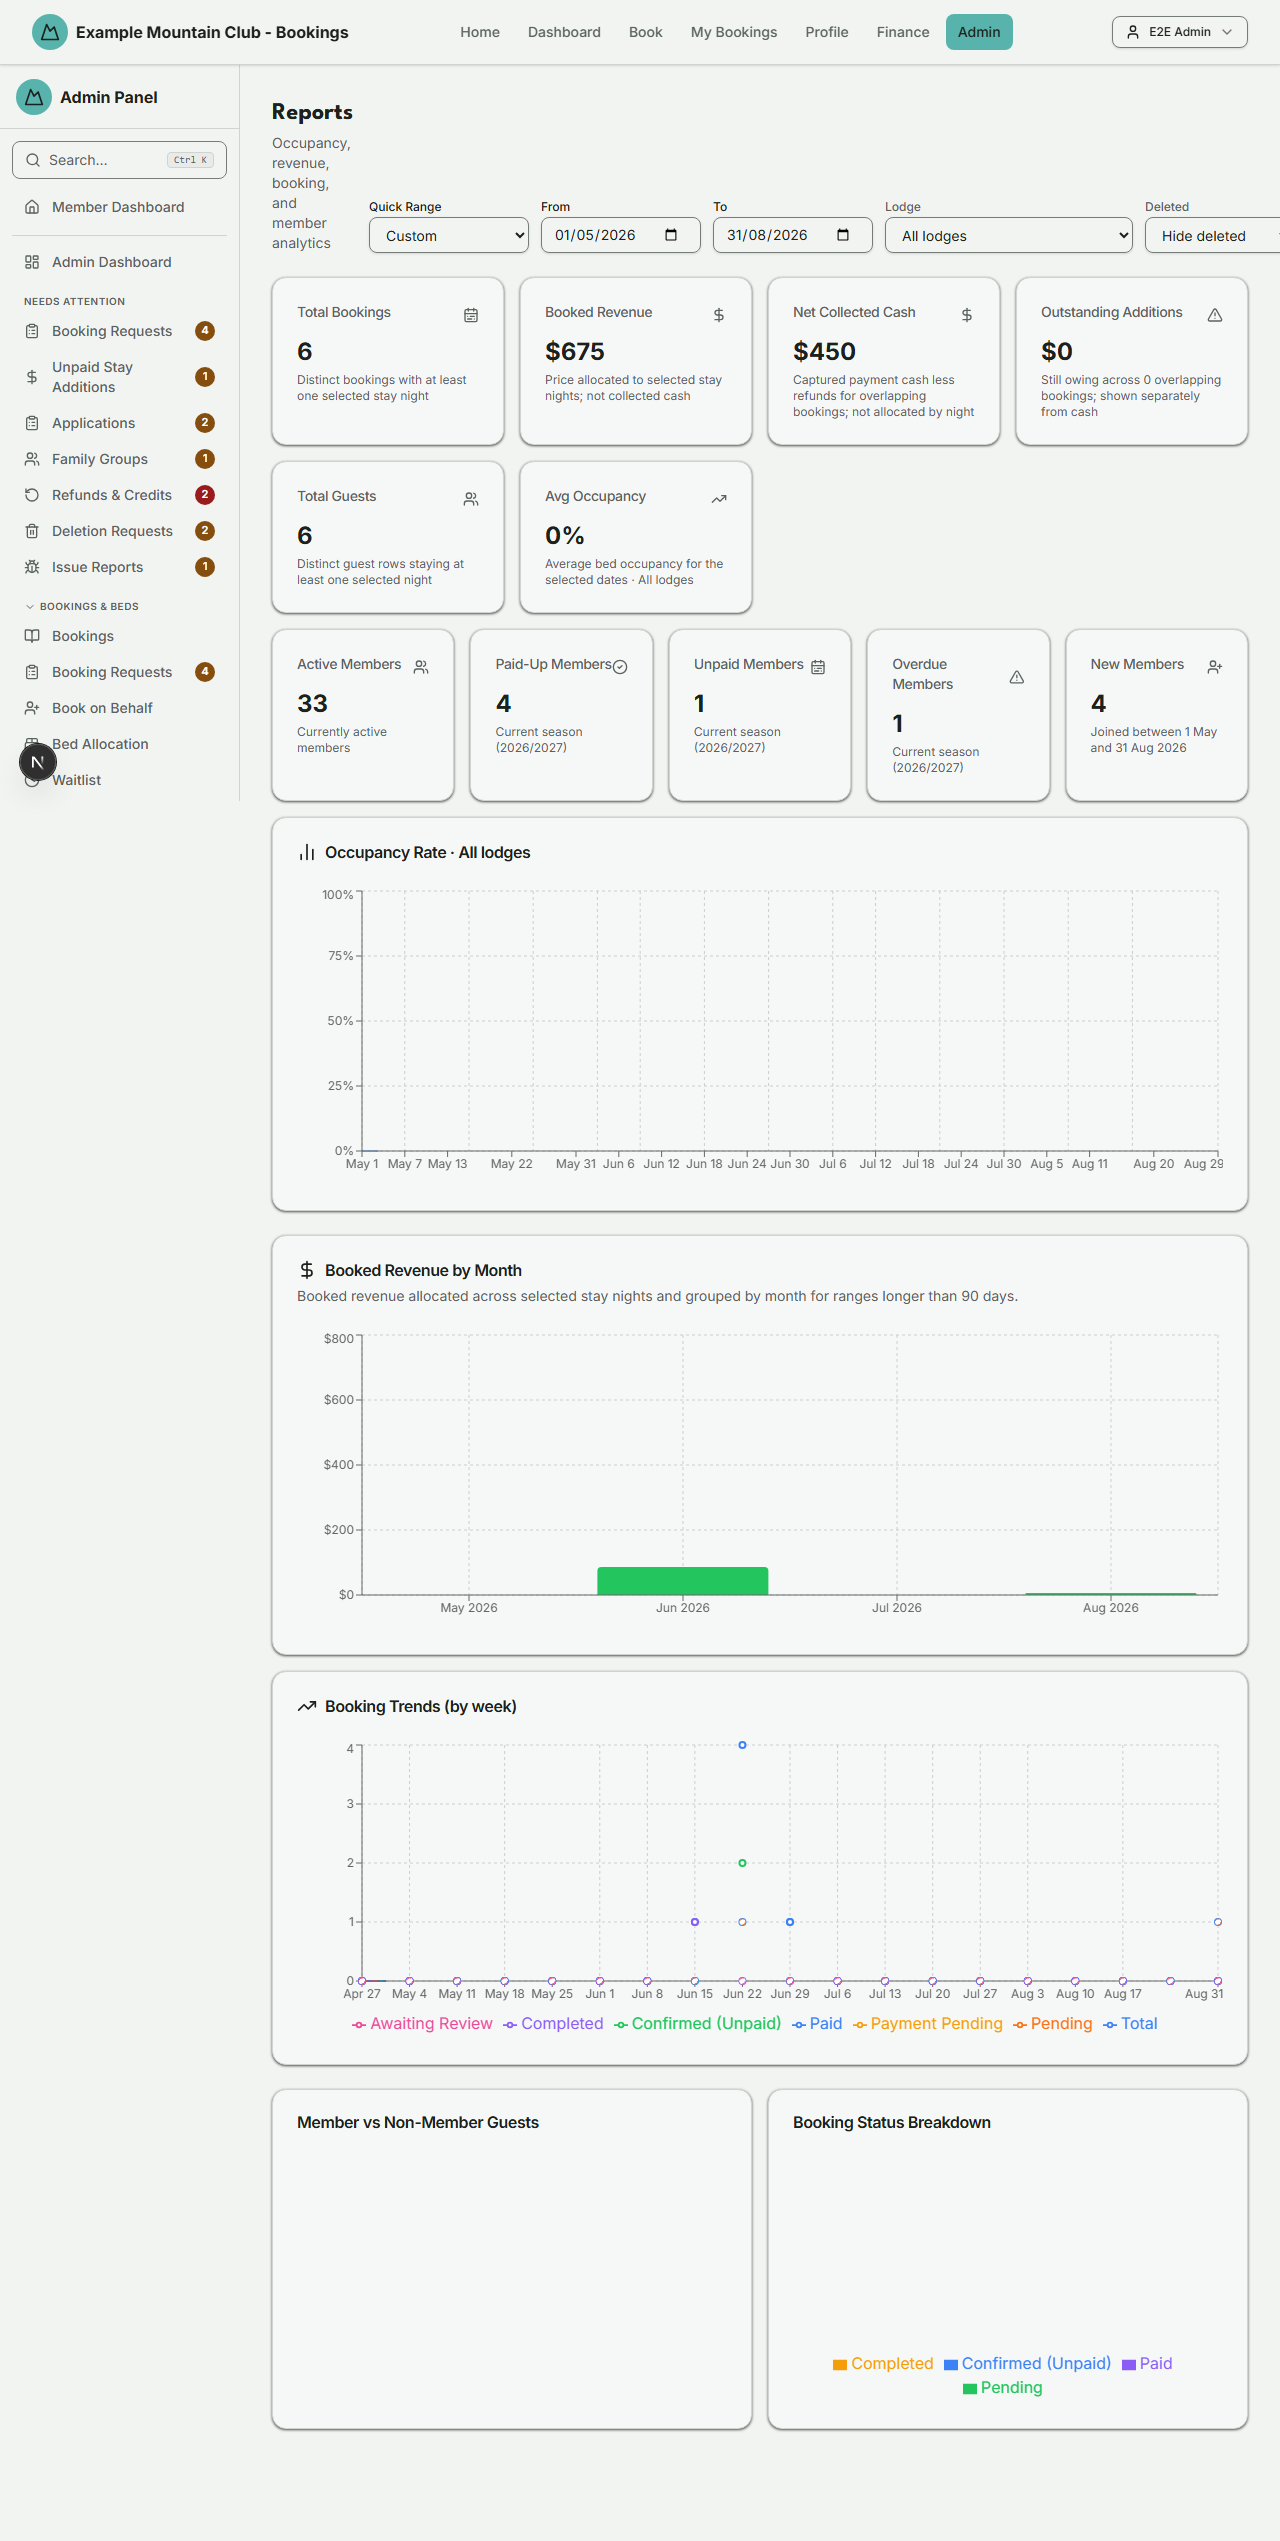
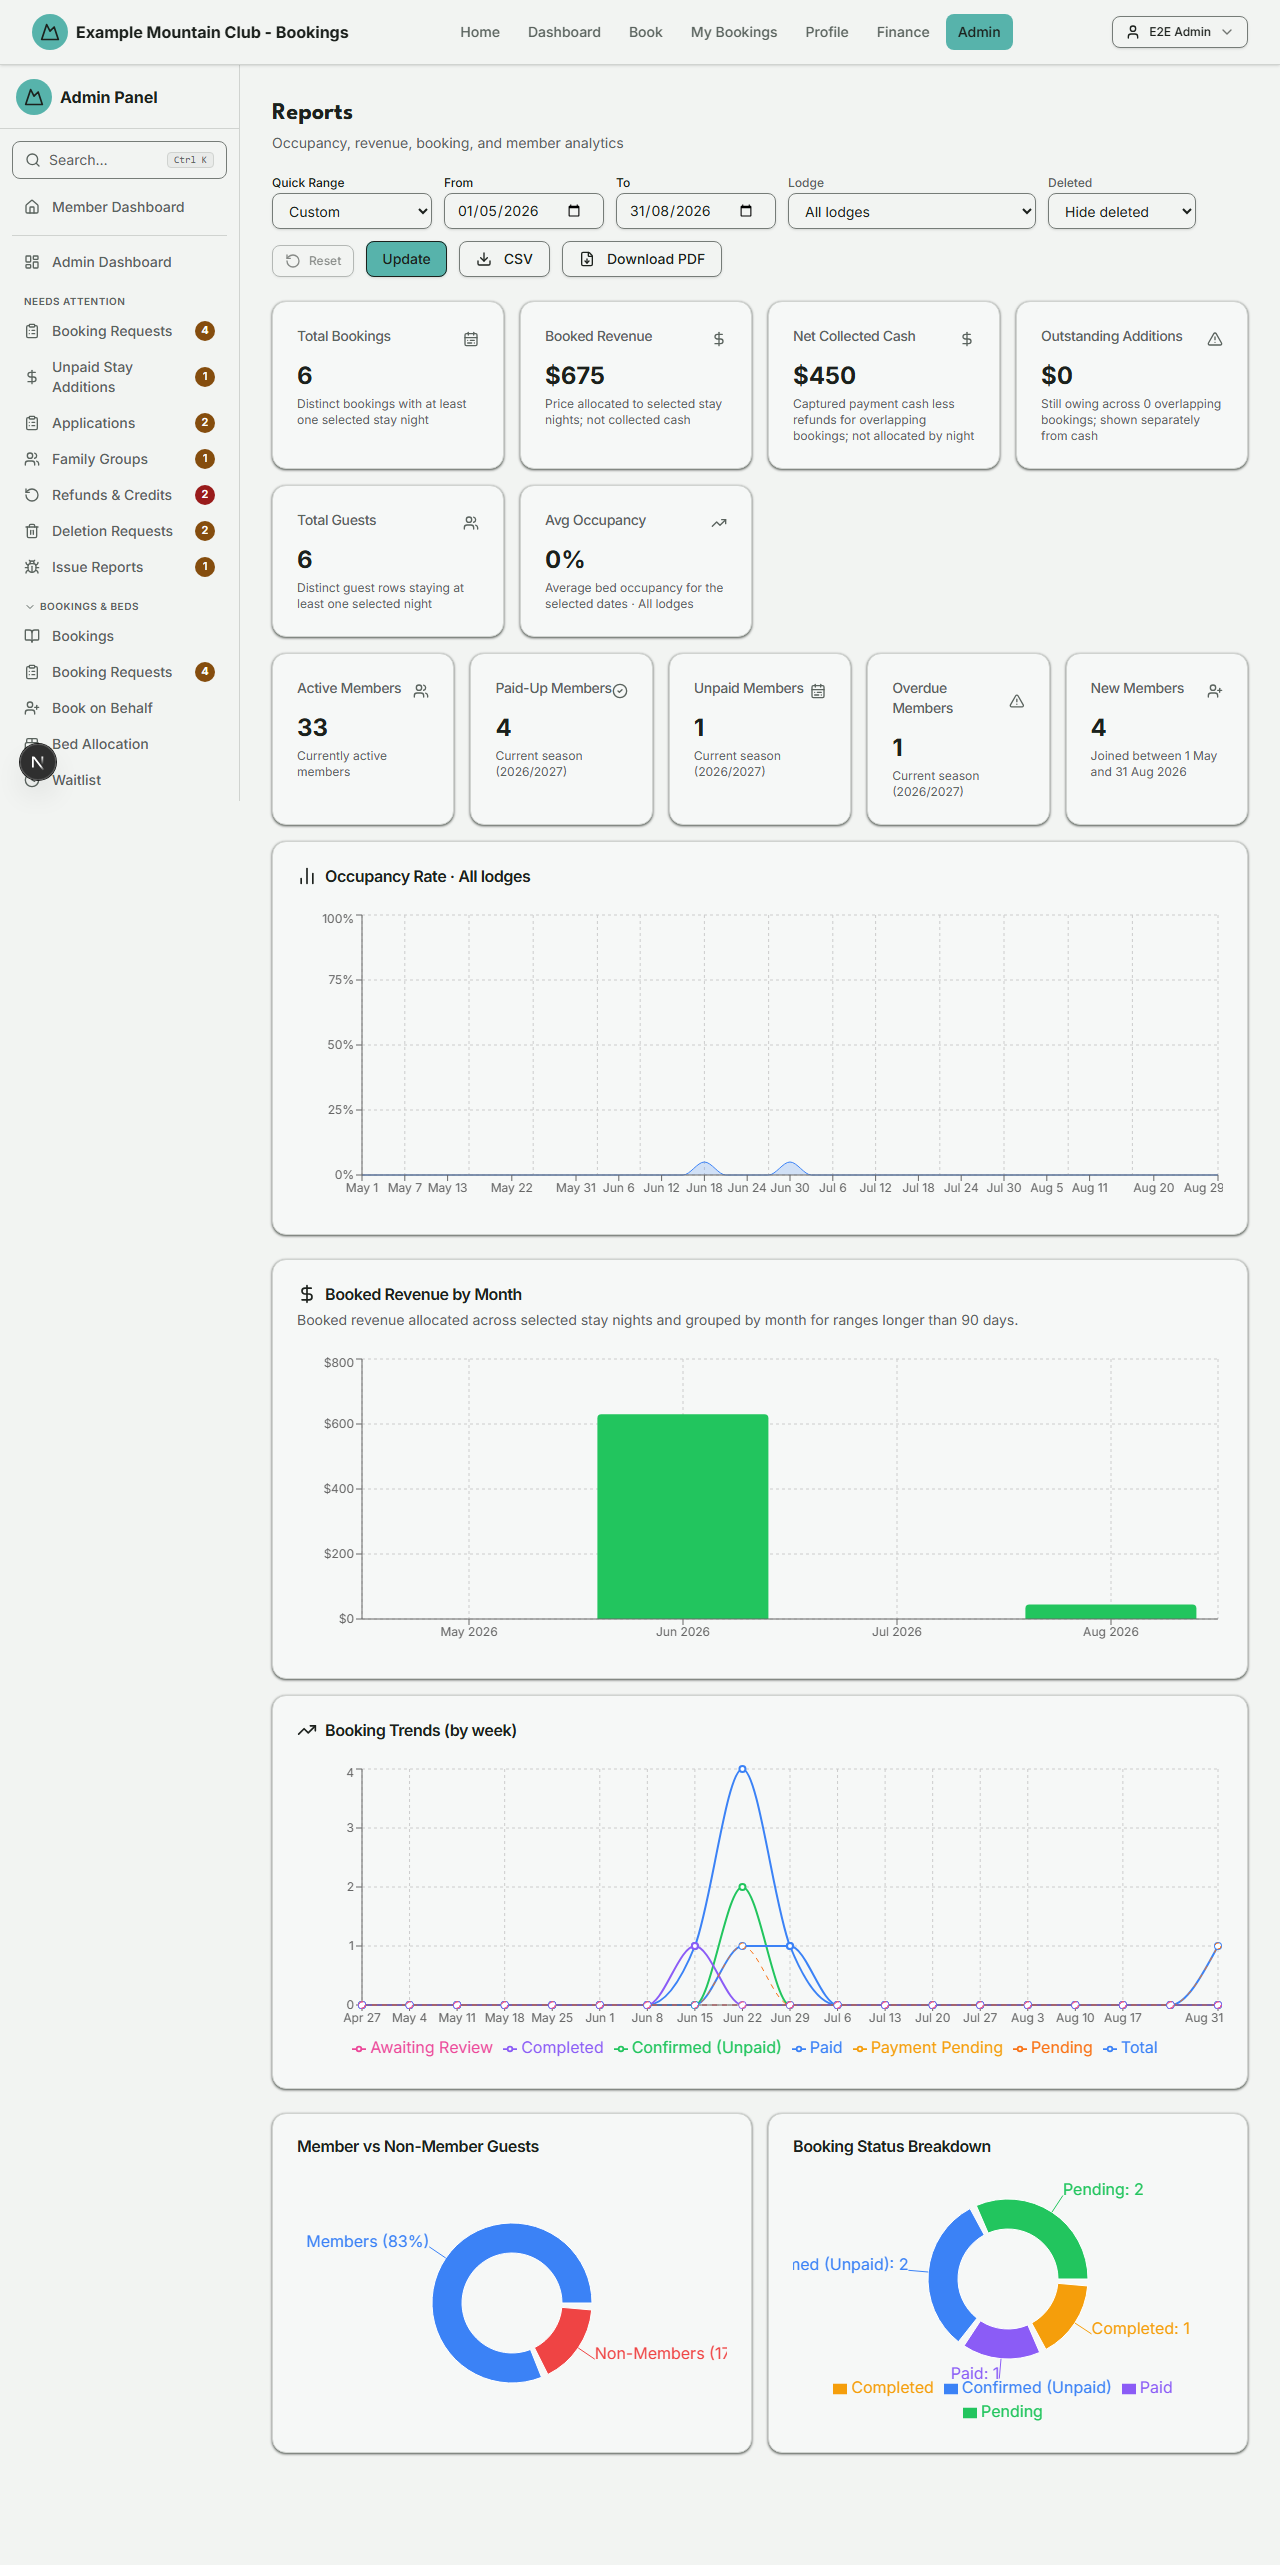
fix(reports): keep dataset controls visible

diff --git a/src/app/(admin)/admin/reports/__tests__/page.test.tsx b/src/app/(admin)/admin/reports/__tests__/page.test.tsx
@@ -75,6 +75,47 @@ afterEach(() => {
 });
 
 describe("ReportsPage quick ranges", () => {
+  it("wraps the full multi-lodge toolbar without changing its keyboard order", async () => {
+    vi.stubGlobal(
+      "fetch",
+      vi.fn(async () =>
+        new Response(JSON.stringify(EMPTY_REPORT), {
+          status: 200,
+          headers: { "Content-Type": "application/json" },
+        }),
+      ),
+    );
+
+    render(<ReportsPage />);
+    const toolbar = await screen.findByRole("group", {
+      name: "Report filters and exports",
+    });
+    const quickRange = screen.getByRole("combobox", { name: "Quick Range" });
+    const from = screen.getByLabelText("From");
+    const to = screen.getByLabelText("To");
+    const lodge = screen.getByDisplayValue("All lodges");
+    const deleted = screen.getByDisplayValue("Hide deleted");
+    const reset = screen.getByRole("button", { name: /^Reset\./ });
+    const update = screen.getByRole("button", { name: "Update" });
+    const csv = await screen.findByRole("button", { name: "CSV" });
+    const pdf = screen.getByRole("button", { name: "Download PDF" });
+
+    expect(toolbar).toHaveClass("w-full", "flex-wrap");
+    expect(reset).toBeDisabled();
+
+    const controls = Array.from(
+      toolbar.querySelectorAll<HTMLElement>("input, select, button"),
+    );
+    expect(controls.indexOf(quickRange)).toBeLessThan(controls.indexOf(from));
+    expect(controls.indexOf(from)).toBeLessThan(controls.indexOf(to));
+    expect(controls.indexOf(to)).toBeLessThan(controls.indexOf(lodge));
+    expect(controls.indexOf(lodge)).toBeLessThan(controls.indexOf(deleted));
+    expect(controls.indexOf(deleted)).toBeLessThan(controls.indexOf(reset));
+    expect(controls.indexOf(reset)).toBeLessThan(controls.indexOf(update));
+    expect(controls.indexOf(update)).toBeLessThan(controls.indexOf(csv));
+    expect(controls.indexOf(csv)).toBeLessThan(controls.indexOf(pdf));
+  });
+
   it("preserves lodge and deleted scope when Next Month changes only the dates", async () => {
     const requests: string[] = [];
     vi.stubGlobal(

diff --git a/src/app/(admin)/admin/reports/page.tsx b/src/app/(admin)/admin/reports/page.tsx
@@ -346,14 +346,18 @@ export default function ReportsPage() {
 
   return (
     <div className="space-y-6 print:space-y-4">
-      <div className="flex flex-col gap-4 sm:flex-row sm:items-end print:hidden">
+      <div className="flex flex-col gap-4 print:hidden">
         <div>
           <h1 className="text-2xl font-bold text-foreground">Reports</h1>
           <p className="mt-1 text-sm text-muted-foreground">
             Occupancy, revenue, booking, and member analytics
           </p>
         </div>
-        <div className="ml-auto flex items-end gap-3">
+        <div
+          role="group"
+          aria-label="Report filters and exports"
+          className="flex w-full flex-wrap items-end gap-3"
+        >
           <DateRangeControls
             presets={reportsDateRangePresets}
             from={from}

diff --git a/e2e/tools/capture-screenshots.ts b/e2e/tools/capture-screenshots.ts
@@ -433,7 +433,10 @@ async function shoot(context: BrowserContext, capture: Capture): Promise<void> {
       .first()
       .waitFor({ state: "hidden", timeout: 15_000 })
       .catch(() => undefined);
-    await page.waitForTimeout(800);
+    // Recharts animates freshly-loaded SVG series for 1.5s. Wait through that
+    // shared finite animation so named captures contain the chart data rather
+    // than only axes/legends from the first frame.
+    await page.waitForTimeout(1_800);
     if (capture.prepare) {
       await capture.prepare(page);
     }
